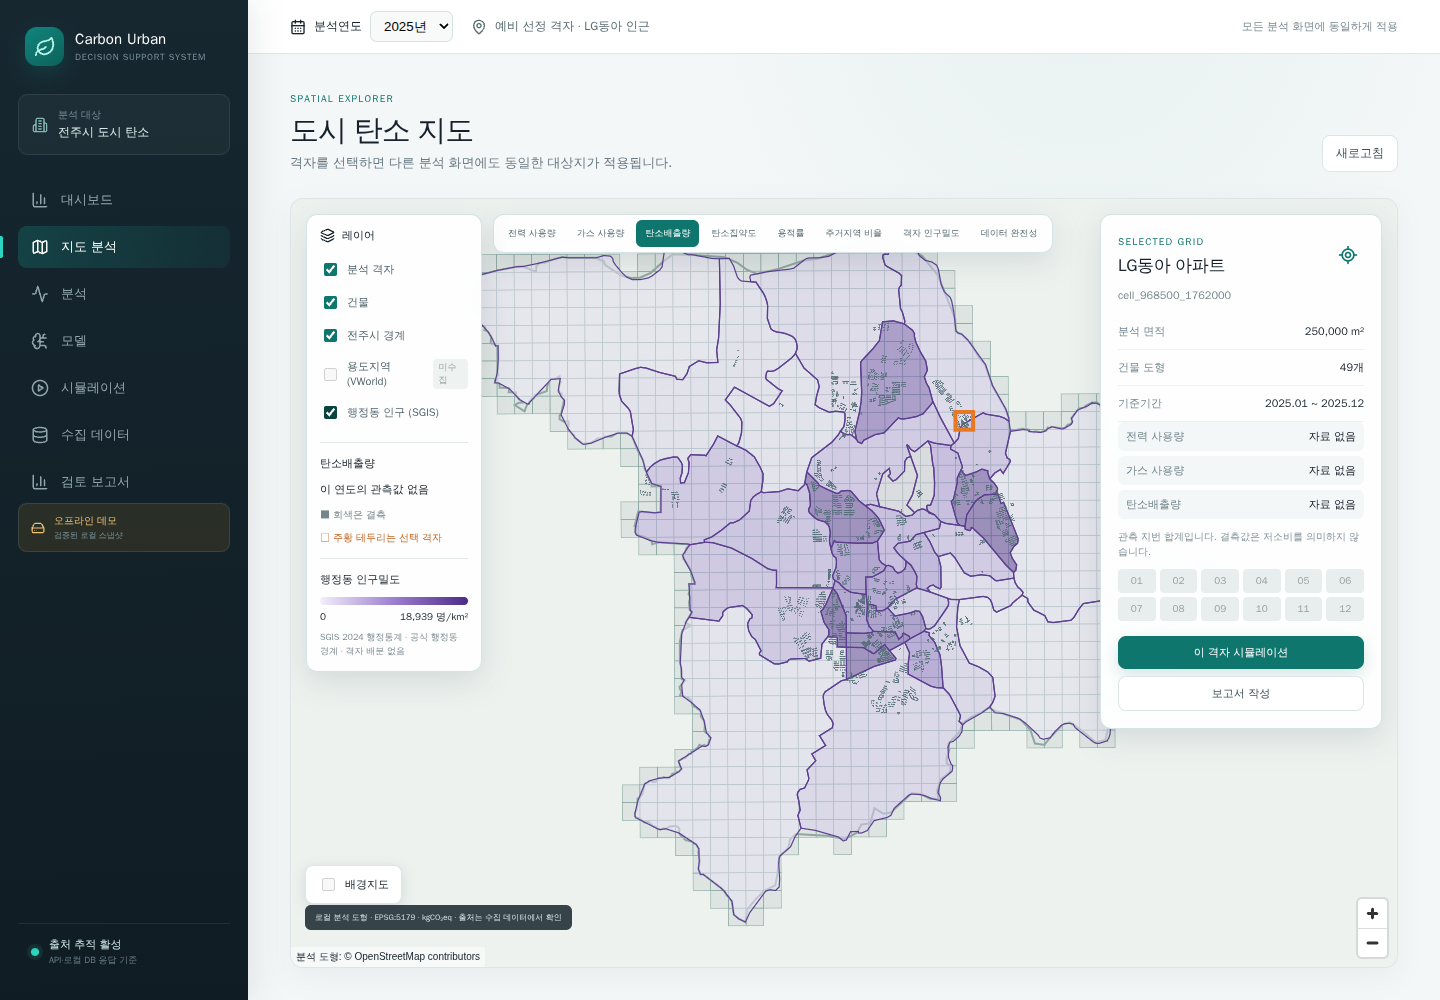
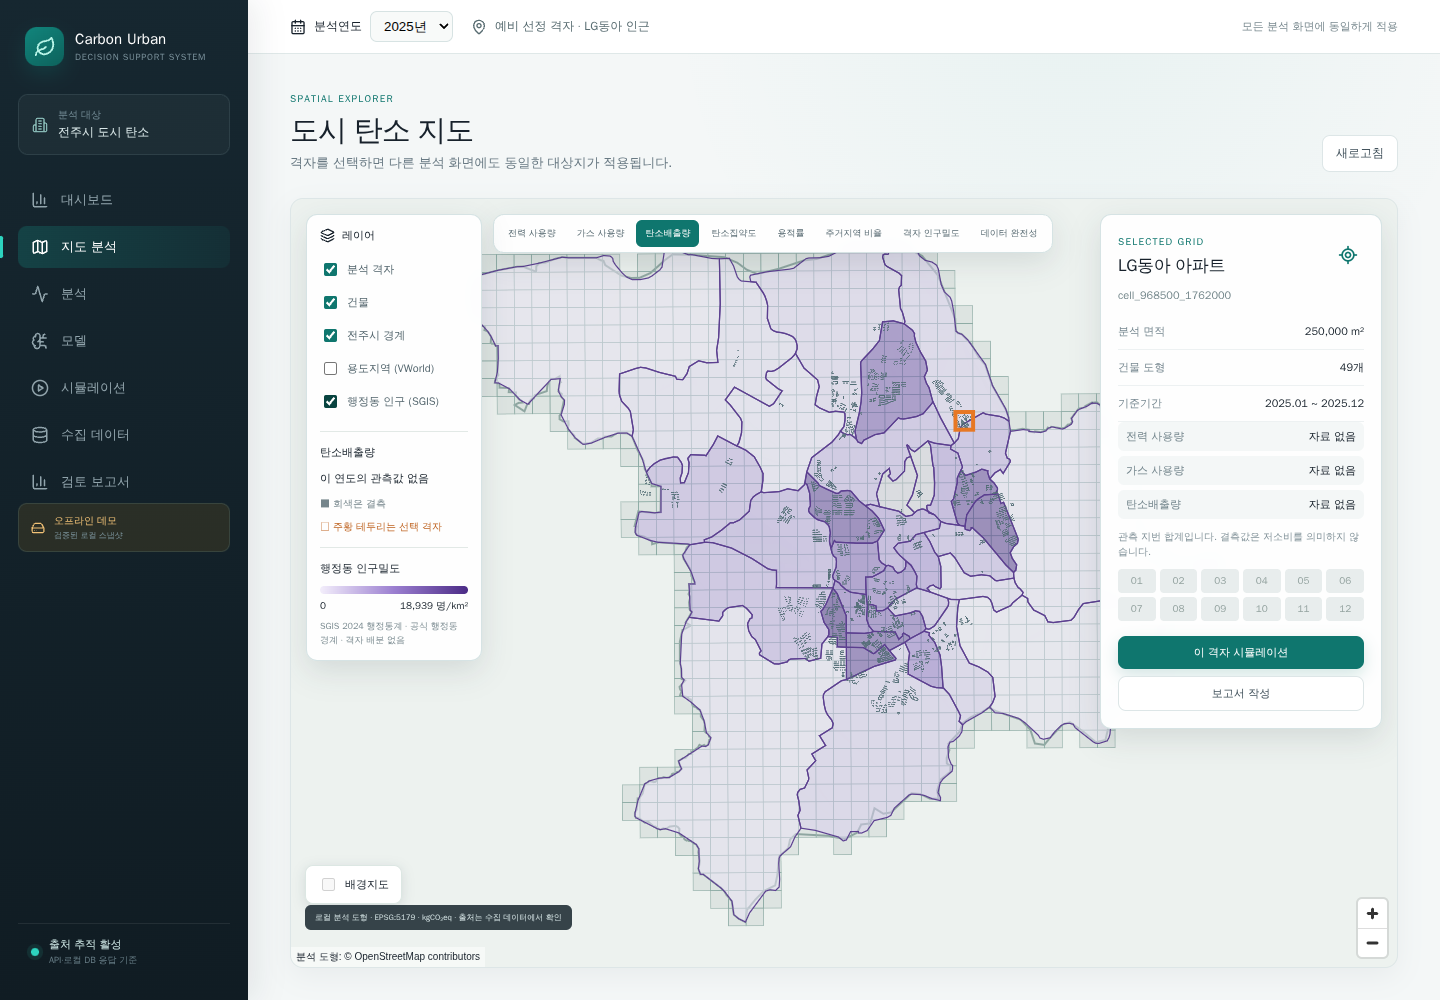
Add new-PC bundle verification and VWorld results to docs
- dss.ps1 VerifyBundle: export bundle, git clone HEAD into a clean
  folder, ImportBundle there into a separate compose project, compare
  counts, check API/map/web, then remove only that project
- ImportBundle creates .env from .env.example on a new PC and checks
  API, map and web after import
- E2E: analysis page official-data charts; cached frontend test is
  reported as CACHED instead of blank
- Docs: VWorld collected (zoning 413 features on 916 grids, cadastral
  3,995 parcels), updated validation evidence

Claude-Session: https://claude.ai/code/session_01FHHEuZJMkY1PRrj63r7szr

Changed region(s): [[0.2188, 0.341, 0.3438, 0.682]]

diff --git a/docs/CLAUDE_HANDOFF_2026-09-23.md b/docs/CLAUDE_HANDOFF_2026-09-23.md
@@ -16,9 +16,9 @@
 | 공공데이터포털 키 | `.env`의 `DATA_GO_KR_SERVICE_KEY`는 **발급 키가 아니라 한글 14자 예시 문구**였다. 과거 403/코드 30은 승인 지연보다 이 값이 그대로 전송된 결과다. 이제 수집 전 `환경변수 형식 오류`로 차단하고 외부 호출을 하지 않는다 | `collection_preflight.py`, `status-after.json` |
 | DB 보존 | 변경 전 백업 33개 테이블: 격자 916, OSM 건물 2,171, K-apt 단지 364, 전주시 공동주택 공개자료 595(+공사중 14), 법정동 86, 기상 월 30행, 월별 에너지 0 | `data/backups/20260923-121408-before/table-counts.tsv` |
 | **SGIS 실수집** | 2024년 공표자료 자동 확인. 전주시 완산구 327,406명·덕진구 322,228명, 행정동 인구 34개·가구 34개, 공식 행정동 경계 35개(EPSG:5179). 500m 격자 배분 없음 | `collect-sgis.json`, `sgis_*` 테이블 |
-| VWorld | 키 형식 정상이나 모든 도메인 후보에서 `INCORRECT_KEY`. 원인: 키 활용API에 **2D데이터 API 미체크**. 사용자가 체크·저장함 → `scripts\dss.cmd Collect -RetryRejected`로 재수집 필요 | `probe-vworld.json` |
+| **VWorld 실수집** | 처음엔 모든 도메인에서 `INCORRECT_KEY`(키 활용API에 2D데이터 API 미체크). 사용자가 체크한 뒤 `INVALID_RANGE`가 났는데, 원인은 geomFilter 좌표가 지수 표기(`1.765e+06`)로 나간 코드 버그라 수정(`a7ba92f`). 이후 **용도지역 FULL(916격자) 도형 413개·격자 교차 2,762건, 연속지적 LIMITED(25격자) 필지 3,995개** 적재. 좌표는 EPSG:5179, 등록 도메인은 `http://localhost`만 통과 | `data/ops/20260923-131115-all/collect-vworld_*.json` |
 | 백업·복원 | 수집 후 백업을 별도 Compose 프로젝트에 복원해 **36개 테이블 행 수 전부 일치** | `summary.json` restore |
-| 테스트 | 복원 사본 pytest **104 통과**, Vitest **12파일 24개 통과**, 브라우저 E2E 9개 통과(페이지 오류 0), 지도 SGIS 행정동 레이어 렌더링 통과 | `pytest-restore.log`, `frontend-test.log`, `data/validation/e2e.json`, `overlays.json` |
+| 테스트 | 복원 사본 pytest **105 통과**, Vitest **12파일 24개 통과**, 브라우저 E2E 9개 통과(페이지 오류 0), 지도 SGIS 행정동 레이어 렌더링 통과(13:02 전체 실행 15단계 모두 PASS) | `pytest-restore.log`, `frontend-test.log`, `data/validation/e2e.json`, `overlays.json` |
 | 초기 JS | 약 2.5MB → **293KB(gzip 93KB)**. MapLibre·ECharts는 해당 화면에서만 지연 로드 | Vite 빌드 로그 |
 
 ### 이번에 바뀐 코드·운영 흐름
@@ -31,7 +31,7 @@
 
 ### 남은 외부 의존성과 다음 행동
 
-1. **VWorld**: 2D데이터 API 체크 반영 후 `scripts\dss.cmd Collect -RetryRejected` → 용도지역 SMOKE(1격자)→LIMITED(25)→FULL(916), 연속지적 SMOKE→LIMITED
+1. **VWorld**: 용도지역 FULL과 연속지적 LIMITED까지 완료. 연속지적 전체는 필지 수가 많아 `.env`에 `VWORLD_CADASTRAL_FULL=true`를 넣고 `scripts\dss.cmd Collect`로 실행(에너지 지번 매칭이 필요해질 때)
 2. **공공데이터포털**: 실제 일반 인증키(Decoding)를 `.env`에 넣고 K-apt 에너지(15012964)·ASOS(15059093)·건축HUB 에너지(15135963)·건축물대장(15134735) 각각 활용신청 승인 → `docker compose up -d --force-recreate api worker` → `scripts\dss.cmd Collect`
 3. SGIS 공식 500m 격자 파일(경계·ID·기준연도·비밀보호 표식), 기업 100m 탄소격자 원본·이용조건, 가스 CO₂eq 계수 근거는 여전히 제공기관 자료가 필요
 4. 월별 에너지 관측이 0행이므로 운영탄소·모델 성능은 계속 `자료 없음`으로 표시한다

diff --git a/docs/TESTING.md b/docs/TESTING.md
@@ -17,10 +17,10 @@ scripts\dss.cmd FrontendTest   # docker build --target test frontend
 | Python pytest (복원 사본, 실데이터 DB에 테스트 행을 남기지 않음) | 104 통과 | `pytest-restore.log` |
 | React/Vitest (Linux 컨테이너) | 12파일, 24 통과 | `frontend-test.log` |
 | Chromium E2E (복원 사본) | 기존 9개 통과, pageerror 0 | `data/validation/e2e.json` |
-| 지도 오버레이 E2E | SGIS 행정동 PASS(35개 렌더링), VWorld 용도지역 SKIP(미수집) | `data/validation/overlays.json`, `overlay-admin.png` |
+| 지도 오버레이 E2E | SGIS 행정동 PASS(35개 렌더링). VWorld 용도지역은 수집 후 재검증(아래 최신 실행 참조) | `data/validation/overlays.json`, `overlay-admin.png` |
 | 운영 빌드 | 초기 JS 약 293KB(gzip 93KB), 지도·차트 라이브러리는 지연 로드 | 재빌드 로그 |
 
-실행하지 않은 것: 공공데이터포털 소스의 실제 수집(유효 키 없음), VWorld 실제 수집(키 활용API 수정 후 재실행 필요), Quick Tunnel 공개 주소 검증(이번 실행 범위 밖).
+실행하지 않은 것: 공공데이터포털 소스의 실제 수집(유효 키 없음), Quick Tunnel 공개 주소 검증(이번 실행 범위 밖).
 
 
 2026-09-18 Windows Docker Desktop Linux 엔진에서 다시 실행했다. 테스트 fixture는 계산 검증용이며 실제 관측으로 저장하지 않는다.

diff --git a/docs/COLLECTION_FAILURE_AUDIT_2026-09-18.md b/docs/COLLECTION_FAILURE_AUDIT_2026-09-18.md
@@ -7,6 +7,7 @@
 
 - `.env`의 `DATA_GO_KR_SERVICE_KEY` 값은 발급 키가 아니라 **한글 예시 문구(14자)**였다. 이 값을 그대로 보내면 공급기관은 `SERVICE_KEY_IS_NOT_REGISTERED`(30)를 반환한다. 이제 한글·공백·따옴표·예시 문구 값은 수집 전 `환경변수 형식 오류`로 차단하고 화면에는 `형식 오류`로 표시한다(값은 출력하지 않음).
 - VWorld 키는 형식이 정상이었지만 도메인 후보 7가지 모두 `INCORRECT_KEY`였다. 인증키 관리 화면의 활용API에 **2D데이터 API가 체크되지 않은 것**이 원인이며 사용자가 체크했다. VWorld 거절 기록은 키와 도메인에 묶어, 도메인을 고치면 바로 재시도한다. 등록 정보를 고친 뒤에는 `scripts\dss.cmd Collect -RetryRejected`로 캐시된 거절만 지우고 재시도한다.
+- 2D데이터 API를 체크한 뒤에는 `INVALID_RANGE`가 났다. geomFilter 좌표가 지수 표기(`1.765e+06`)로 전송된 코드 버그였고 `BOX(minx,miny,maxx,maxy)` 일반 소수로 고쳤다. 이후 용도지역 FULL(도형 413개)과 연속지적 LIMITED(필지 3,995개)를 수집했다. 등록 도메인은 `http://localhost`만 통과한다(`127.0.0.1`은 `INCORRECT_KEY`).
 - SGIS는 새 키로 2024년 행정통계·행정동 경계 수집에 성공했다.
 
 ## 조사 결과
